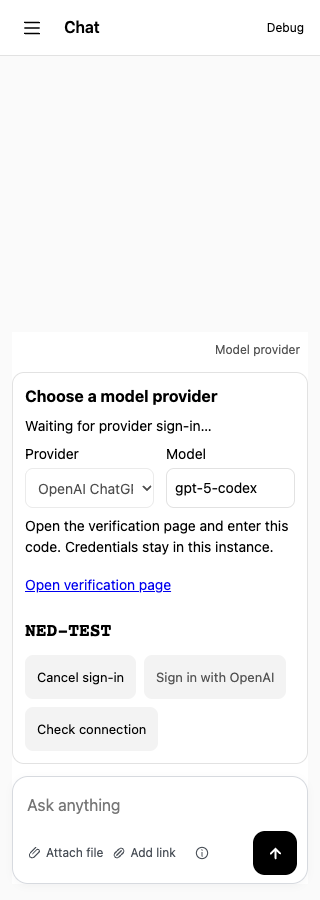
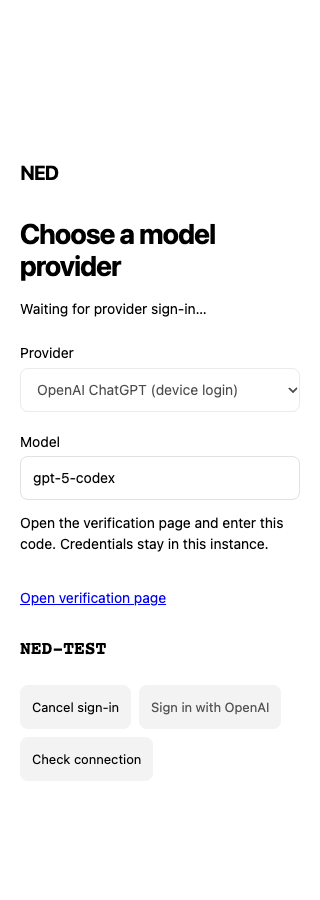
Make first-use model setup a full-screen interstitial

diff --git a/docs/features/model-setup/tests/TC-002.test.js b/docs/features/model-setup/tests/TC-002.test.js
@@ -13,15 +13,18 @@ test('TC-002: served local provider setup clears secrets, preserves draft and by
   const models=createModelSetup({home:root,env:{HERMES_HOME:path.join(root,'profile')},fetch:async(url,options)=>{calls++;assert.equal(url,'https://openrouter.ai/api/v1/key');assert.equal(options.headers.Authorization,'Bearer synthetic-local-provider-key');return new Response('{}',{status:reject?401:200});}});
   const chat=await browserChat(t,{modelSetup:models});await chat.ready();
   const card=chat.page.locator('#model-setup');await expect(card).toBeVisible();await expect(chat.page.locator('#chat-send')).toBeDisabled();
-  await chat.draft.fill('Keep this draft during setup');await chat.page.getByLabel('Provider',{exact:true}).selectOption('openrouter');await expect(chat.page.getByLabel('Model',{exact:true})).toHaveValue('openai/gpt-4.1');
+  await expect(card).toHaveAttribute('open','');
+  await chat.page.keyboard.press('Escape');await expect(card).toBeVisible();
+  await chat.draft.evaluate(e=>{e.value='Keep this draft during setup';e.dispatchEvent(new Event('input',{bubbles:true}));});await chat.page.getByLabel('Provider',{exact:true}).selectOption('openrouter');await expect(chat.page.getByLabel('Model',{exact:true})).toHaveValue('openai/gpt-4.1');
   await chat.page.getByLabel('API key',{exact:true}).fill('synthetic-local-provider-key');await chat.page.getByRole('button',{name:'Connect provider'}).click();await expect(chat.page.locator('#model-setup-status')).toContainText('could not be saved');await expect(chat.page.getByLabel('API key',{exact:true})).toHaveValue('');await expect(chat.draft).toHaveValue('Keep this draft during setup');
   await chat.page.getByRole('button',{name:'Check connection'}).click();await expect(chat.page.locator('#model-setup-status')).toContainText('required before chatting');
   const capture=process.env.NED_MODEL_SCREENSHOT_DIR;
   if(capture)await mkdir(capture,{recursive:true});
-  for(const viewport of [{width:1280,height:900},{width:320,height:740}]){await chat.page.setViewportSize(viewport);if(viewport.width<768){await chat.page.getByRole('button',{name:'Open navigation'}).click();await chat.page.locator('#mobile-sidebar-toggle').click();}await expect(card).toBeVisible();assert.equal(await chat.page.evaluate(()=>globalThis.document.documentElement.scrollWidth>globalThis.innerWidth),false);if(capture)await chat.page.screenshot({path:path.join(capture,`setup-${viewport.width}.png`)});}
+  for(const viewport of [{width:1280,height:900},{width:320,height:740}]){await chat.page.setViewportSize(viewport);await expect(card).toBeVisible();const box=await card.boundingBox();assert.deepEqual({x:box.x,y:box.y,width:box.width,height:box.height},{x:0,y:0,...viewport});await chat.page.keyboard.press('Tab');assert(await card.evaluate(e=>e.contains(globalThis.document.activeElement)));assert.equal(await chat.page.evaluate(()=>globalThis.document.documentElement.scrollWidth>globalThis.innerWidth),false);if(capture)await chat.page.screenshot({path:path.join(capture,`setup-${viewport.width}.png`)});}
   reject=false;await chat.page.getByLabel('API key',{exact:true}).fill('synthetic-local-provider-key');await chat.page.getByRole('button',{name:'Connect provider'}).click();await expect(card).toBeHidden();await expect(chat.page.locator('#chat-send')).toBeEnabled();await expect(chat.draft).toHaveValue('Keep this draft during setup');
   await chat.page.reload();await chat.ready();await chat.page.getByRole('button',{name:'Open navigation'}).click();await chat.page.locator('#mobile-sidebar-toggle').click();await expect(card).toBeHidden();assert.equal(calls,2);assert(!(await chat.page.content()).includes('synthetic-local-provider-key'));assert(!(await chat.page.evaluate(()=>JSON.stringify({...localStorage,...sessionStorage}))).includes('synthetic-local-provider-key'));
   const config=await readFile(path.join(root,'profile/config.yaml'),'utf8');assert(config.includes('synthetic-local-provider-key'));
+  await chat.page.getByRole('button',{name:'Model provider',exact:true}).click();await expect(card).toBeVisible();await chat.page.getByRole('button',{name:'Close model settings',exact:true}).click();await expect(card).toBeHidden();await expect(chat.page.locator('#model-setup-toggle')).toBeFocused();
   await chat.send('Configured local provider interaction');assert.deepEqual(chat.errors,[]);
 });
 
@@ -38,13 +41,34 @@ test('TC-002: hosted setup offers instance configuration and optional account in
 test('TC-002: instance device login shows only challenge, supports cancel/retry and resumes configured chat',{timeout:45000},async t=>{
   const root=await mkdtemp(path.join(tmpdir(),'ned-device-ui-')),profile=path.join(root,'profile');await mkdir(profile,{mode:0o700});t.after(()=>rm(root,{recursive:true,force:true}));
   let approve,stops=0;
-  const adapter={available:async()=>true,async start(input,hooks){let reject,resolve;const done=new Promise((yes,no)=>{resolve=yes;reject=no;});approve=async()=>{let release;try{release=await hooks.beforeCommit();await import('node:fs/promises').then(fs=>fs.writeFile(path.join(profile,'config.yaml'),'model: {provider: openai, default: fixture}\n',{mode:0o600}));resolve();}finally{await release?.();}};queueMicrotask(()=>hooks.event({type:'challenge',verificationUri:'https://auth.openai.com/codex/device',userCode:'NED-TEST',deviceSecret:'never-display'}));return {done,stop(){stops++;reject(Error('cancelled'));}};}};
-  const models=createModelSetup({home:root,env:{HERMES_HOME:profile,OPENAI_API_KEY:'synthetic-configured-key'},hermesAdapter:adapter});
-  // A configured user may explicitly open settings and select another authentication method.
-  const chat=await browserChat(t,{modelSetup:models});await chat.ready();await chat.page.getByRole('button',{name:'Model provider',exact:true}).click();
+  const adapter={available:async()=>true,async start(input,hooks){let reject,resolve;const done=new Promise((yes,no)=>{resolve=yes;reject=no;});approve=async()=>{let release;try{release=await hooks.beforeCommit();await import('node:fs/promises').then(fs=>fs.writeFile(path.join(profile,'config.yaml'),'model: {provider: openai, default: fixture, api_key: synthetic-configured-key}\n',{mode:0o600}));resolve();}finally{await release?.();}};queueMicrotask(()=>hooks.event({type:'challenge',verificationUri:'https://auth.openai.com/codex/device',userCode:'NED-TEST',deviceSecret:'never-display'}));return {done,stop(){stops++;reject(Error('cancelled'));}};}};
+  const models=createModelSetup({home:root,env:{HERMES_HOME:profile},hermesAdapter:adapter});
+  const chat=await browserChat(t,{modelSetup:models});await chat.ready();await expect(chat.page.locator('#model-setup')).toBeVisible();
   await chat.page.getByLabel('Provider',{exact:true}).selectOption('openai-codex');await expect(chat.page.locator('#model-key')).toBeHidden();await chat.page.getByRole('button',{name:'Sign in with OpenAI',exact:true}).click();await expect(chat.page.locator('#model-device-code')).toHaveText('NED-TEST');assert(!(await chat.page.content()).includes('never-display'));
-  if(process.env.NED_MODEL_SCREENSHOT_DIR){await mkdir(process.env.NED_MODEL_SCREENSHOT_DIR,{recursive:true});for(const width of [1280,320]){await chat.page.setViewportSize({width,height:900});if(width<768){await chat.page.getByRole('button',{name:'Open navigation'}).click();await chat.page.locator('#mobile-sidebar-toggle').click();}assert.equal(await chat.page.evaluate(()=>globalThis.document.documentElement.scrollWidth>globalThis.innerWidth),false);await chat.page.screenshot({path:path.join(process.env.NED_MODEL_SCREENSHOT_DIR,'device-'+width+'.png')});}}
+  if(process.env.NED_MODEL_SCREENSHOT_DIR){await mkdir(process.env.NED_MODEL_SCREENSHOT_DIR,{recursive:true});for(const width of [1280,320]){await chat.page.setViewportSize({width,height:900});assert.equal(await chat.page.evaluate(()=>globalThis.document.documentElement.scrollWidth>globalThis.innerWidth),false);await chat.page.screenshot({path:path.join(process.env.NED_MODEL_SCREENSHOT_DIR,'device-'+width+'.png')});}}
 
-  await chat.page.getByRole('button',{name:'Cancel sign-in',exact:true}).click();await expect(chat.page.locator('#model-setup-status')).toContainText('cancelled');assert(stops>0);
+  await chat.page.getByRole('button',{name:'Cancel sign-in',exact:true}).click();await expect(chat.page.locator('#model-setup-status')).toContainText('cancelled');assert(stops>0);await chat.page.keyboard.press('Escape');await expect(chat.page.locator('#model-setup')).toBeVisible();
   await chat.page.getByRole('button',{name:'Sign in with OpenAI',exact:true}).click();await expect(chat.page.locator('#model-device-code')).toHaveText('NED-TEST');await approve();await expect(chat.page.locator('#chat-send')).toBeEnabled();assert(!(await chat.page.evaluate(()=>JSON.stringify({...localStorage,...sessionStorage}))).includes('NED-TEST'));
+});
+
+
+test('TC-002: status failure cannot bypass first-use setup and lost access clears the flow before reauthentication',{timeout:45000},async t=>{
+  const root=await mkdtemp(path.join(tmpdir(),'ned-model-gate-'));t.after(()=>rm(root,{recursive:true,force:true}));
+  const models=createModelSetup({home:root,env:{HERMES_HOME:path.join(root,'profile')}});
+  const chat=await browserChat(t,{modelSetup:models,deferLogin:true});
+  let release;const waiting=new Promise(resolve=>{release=resolve;});
+  let first=true;
+  await chat.page.route('**/api/v1/model-setup',async route=>{
+    if(first&&route.request().method()==='GET'){first=false;await waiting;return route.fulfill({status:503,json:{error:{code:'unavailable'}}});}
+    await route.continue();
+  });
+  await chat.page.locator('#access-token').fill(chat.accessToken);await chat.page.locator('#access-submit').click();
+  const card=chat.page.locator('#model-setup');await expect(card).toBeVisible();await expect(chat.page.locator('#model-setup-status')).toContainText('Checking model configuration');
+  await chat.page.keyboard.press('Escape');await expect(card).toBeVisible();release();
+  await expect(chat.page.locator('#model-setup-status')).toContainText('unavailable');await chat.page.getByRole('button',{name:'Check connection',exact:true}).click();
+  await expect(chat.page.locator('#model-setup-form')).toBeVisible();await chat.page.getByLabel('API key',{exact:true}).fill('synthetic-unsaved-key');
+  await chat.page.evaluate(async()=>{const {apiClient}=await import('/api-client.js');apiClient.forget();});
+  await expect(card).toBeHidden();await expect(chat.page.locator('#access-gate')).toBeVisible();await expect(chat.page.locator('#model-key')).toHaveValue('');
+  await chat.page.locator('#access-token').fill(chat.accessToken);await chat.page.locator('#access-submit').click();
+  await expect(card).toBeVisible();await expect(chat.page.locator('#model-setup-form')).toBeVisible();await expect(chat.page.locator('#chat-send')).toBeDisabled();assert.deepEqual(chat.errors,[]);
 });

diff --git a/apps/com/src/public/model-setup.js b/apps/com/src/public/model-setup.js
@@ -3,10 +3,30 @@ export function mountModelSetup({document,request=globalThis.fetch,changed=()=>{
   if(!card||!toggle)return {ready:()=>true,refresh:async()=>{}};
   const element=id=>document.getElementById(id),status=element('model-setup-status'),form=element('model-setup-form'),provider=element('model-provider'),model=element('model-name'),key=element('model-key'),hub=element('model-hub-link'),check=element('model-check');
   let state,ready=false,busy=false,opened=false,nonce,closed=false,version=0,login,pollTimer;
+  let authenticated=!document.getElementById('app-shell')?.hidden;
+  const closeButton=element('model-setup-close');
+  function dismiss(){if(!ready)return;opened=false;render();toggle.focus();}
+  card.addEventListener('cancel',event=>{event.preventDefault();dismiss();});
+  closeButton.addEventListener('click',dismiss);
+  document.addEventListener('keydown',event=>{
+    if(event.key!=='Tab'||!card.open)return;
+    const controls=[...card.querySelectorAll('a[href],button,input,select,textarea')].filter(e=>!e.disabled&&e.getClientRects().length);
+    const first=controls[0],last=controls.at(-1),active=document.activeElement;
+    if(!first){event.preventDefault();element('model-setup-title').focus();}
+    else if(event.shiftKey&&(active===first||!controls.includes(active))){event.preventDefault();last.focus();}
+    else if(!event.shiftKey&&(active===last||!controls.includes(active))){event.preventDefault();first.focus();}
+  });
+  document.addEventListener('ned-auth-lost',()=>{authenticated=false;version++;ready=false;state=null;nonce=null;login=null;clearTimeout(pollTimer);key.value='';render();});
+  document.addEventListener('ned-auth-entered',()=>{const recheck=!authenticated;authenticated=true;render();if(recheck)void discover();});
   const pending=()=>login&&['starting','waiting','authorizing'].includes(login.state);
   const defaults={openai:'gpt-4.1',openrouter:'openai/gpt-4.1',gemini:'gemini-2.5-flash',anthropic:'claude-sonnet-4-5','openai-codex':'gpt-5-codex'};
   function render(){
-    card.hidden=ready&&!opened;
+    const visible=!closed&&authenticated&&(!ready||opened);
+    card.classList.toggle('model-onboarding',!ready);
+    closeButton.hidden=!ready;
+    card.hidden=!visible;
+    if(visible&&!card.open){card.showModal();element('model-setup-title').focus();}
+    else if(!visible&&card.open){card.close();if(authenticated&&ready)element('chat-message').focus();}
     form.hidden=!state;
     element('model-connect').hidden=form.hidden;
     hub.hidden=!state?.settingsUrl;
@@ -50,6 +70,7 @@ export function mountModelSetup({document,request=globalThis.fetch,changed=()=>{
     const current=++version;busy=true;key.value='';render();
     try{
       const response=await request('/api/v1/model-setup',{method:'POST',headers:{'Content-Type':'application/json','X-NED-Models':'1'},body:JSON.stringify(body),signal:AbortSignal.timeout(20000)});
+      if(closed||current!==version)return;
       if(!response.ok)throw new Error('Rejected');
       if(response.status===202){const data=await response.json();login=data.login;schedulePoll();status.textContent='Waiting for provider sign-in…';return;}
       const data=await read();if(closed||current!==version)return;
@@ -61,24 +82,28 @@ export function mountModelSetup({document,request=globalThis.fetch,changed=()=>{
   function schedulePoll(){clearTimeout(pollTimer);if(!closed&&pending())pollTimer=setTimeout(()=>void poll(),1500);}
   async function poll(){
     if(closed||!pending())return;
-    try{const response=await request('/api/v1/model-setup?login='+encodeURIComponent(login.id),{headers:{'X-NED-Models':'1'},signal:AbortSignal.timeout(15000)});if(!response.ok)throw Error();const data=await response.json();if(closed)return;login=data.login;if(pending()){status.textContent=login.state==='authorizing'?'Saving provider connection…':'Waiting for provider sign-in…';render();schedulePoll();}else{const complete=login.state==='complete';login=null;opened=!complete;await refresh();if(!complete)status.textContent='Provider sign-in did not complete. Check connection and try again.';}}
-    catch{if(!closed){status.textContent='Sign-in status is unavailable. Check connection before trying again.';login=null;render();}}
+    const current=version;
+    try{const response=await request('/api/v1/model-setup?login='+encodeURIComponent(login.id),{headers:{'X-NED-Models':'1'},signal:AbortSignal.timeout(15000)});if(!response.ok)throw Error();const data=await response.json();if(closed||current!==version)return;login=data.login;if(pending()){status.textContent=login.state==='authorizing'?'Saving provider connection…':'Waiting for provider sign-in…';render();schedulePoll();}else{const complete=login.state==='complete';login=null;opened=!complete;await refresh();if(!complete)status.textContent='Provider sign-in did not complete. Check connection and try again.';}}
+    catch{if(!closed&&current===version){status.textContent='Sign-in status is unavailable. Check connection before trying again.';login=null;render();}}
   }
   element('model-disconnect').addEventListener('click',()=>{if(busy||pending()||!nonce)return;if(!globalThis.confirm('Disconnect this instance provider? Other instances and Hub account settings stay unchanged.'))return;void write({action:'disconnect',nonce,confirm:true});});
   element('model-login-cancel').addEventListener('click',async()=>{
-    if(busy||!pending())return;busy=true;render();
-    try{const response=await request('/api/v1/model-setup',{method:'POST',headers:{'Content-Type':'application/json','X-NED-Models':'1'},body:JSON.stringify({action:'cancel-login',id:login.id}),signal:AbortSignal.timeout(15000)});if(!response.ok)throw Error();login=null;clearTimeout(pollTimer);await refresh(true);status.textContent='Provider sign-in cancelled.';}catch{status.textContent='Check connection before retrying sign-in.';}finally{busy=false;render();}
+    if(busy||!pending())return;const current=version;busy=true;render();
+    try{const response=await request('/api/v1/model-setup',{method:'POST',headers:{'Content-Type':'application/json','X-NED-Models':'1'},body:JSON.stringify({action:'cancel-login',id:login.id}),signal:AbortSignal.timeout(15000)});if(closed||current!==version)return;if(!response.ok)throw Error();login=null;clearTimeout(pollTimer);await refresh(true);status.textContent='Provider sign-in cancelled.';}catch{status.textContent='Check connection before retrying sign-in.';}finally{busy=false;render();}
   });
   form.addEventListener('submit',event=>{event.preventDefault();if(!nonce||busy)return;const body={nonce,provider:provider.value,model:model.value,replace:state?.source!=='local',...(provider.value==='openai-codex'?{action:'login'}:{apiKey:key.value})};nonce=null;void write(body);});
   provider.addEventListener('change',()=>{model.value=defaults[provider.value]??'';render();});
   check.addEventListener('click',()=>{if(busy)return;if(state?.source==='hub')void write({action:'inherit'});else void refresh();});
   toggle.addEventListener('click',()=>{opened=!opened;render();if(opened)void refresh();});
-  queueMicrotask(async()=>{
+  async function discover(){
+    const current=++version;busy=true;render();
     try{
       const response=await request('/api/v1/capabilities',{signal:AbortSignal.timeout(15000)}),data=await response.json();
-      if(data.capabilities?.modelSetup===false){ready=true;card.hidden=true;toggle.hidden=true;changed();return;}
+      if(closed||current!==version)return;
+      if(data.capabilities?.modelSetup===false){busy=false;ready=true;opened=false;toggle.hidden=true;render();return;}
     }catch{/* The model status request remains authoritative when discovery fails. */}
-    await refresh();
-  });
-  return {ready:()=>ready,refresh,close(){closed=true;version++;clearTimeout(pollTimer);key.value='';element('model-device-code').textContent='';}};
+    if(!closed&&current===version)await refresh();
+  }
+  queueMicrotask(()=>{if(authenticated)void discover();});
+  return {ready:()=>ready,refresh,close(){closed=true;version++;clearTimeout(pollTimer);key.value='';element('model-device-code').textContent='';render();}};
 }

diff --git a/apps/com/src/public/index.html b/apps/com/src/public/index.html
@@ -25,13 +25,7 @@
       <button id="model-setup-toggle" type="button" aria-controls="model-setup" aria-expanded="false">Model provider</button>
       <p id="chat-status" role="status" aria-live="polite">Loading chat…</p>
       <button id="chat-retry">Reload</button>
-      <section id="model-setup" aria-labelledby="model-setup-title" hidden>
-        <h2 id="model-setup-title">Choose a model provider</h2><p id="model-setup-status" role="status">Model provider is required before chatting.</p>
-        <a id="model-hub-link" target="_blank" rel="noopener noreferrer" hidden>Set up in NED Hub</a>
-        <form id="model-setup-form" autocomplete="off" hidden><div class="model-field"><label for="model-provider">Provider</label><select id="model-provider"><option value="openai">OpenAI</option><option value="openrouter">OpenRouter</option><option value="gemini">Google Gemini</option><option value="anthropic">Claude (Anthropic)</option><option value="openai-codex" disabled>OpenAI ChatGPT (device login)</option></select></div><div class="model-field"><label for="model-name">Model</label><input id="model-name" value="gpt-4.1" maxlength="200" required></div><div class="model-field model-key-field"><label for="model-key">API key</label><input id="model-key" type="password" autocomplete="new-password" minlength="16" maxlength="4096" required></div></form>
-        <div id="model-device" hidden><p>Open the verification page and enter this code. Credentials stay in this instance.</p><a id="model-device-link" target="_blank" rel="noopener noreferrer">Open verification page</a><p><code id="model-device-code"></code></p></div>
-        <div class="model-actions"><button id="model-login-cancel" type="button" hidden>Cancel sign-in</button><button id="model-connect" type="submit" form="model-setup-form">Connect provider</button><button id="model-check" type="button">Check connection</button><button id="model-disconnect" type="button" hidden>Disconnect instance provider</button></div>
-      </section>
+
       <form id="chat-form">
         <ul id="chat-task-references" class="task-reference-list" aria-label="Referenced tasks"></ul><p id="chat-reference-status" class="sr-only" role="status"></p>
         <label class="sr-only" for="chat-message">Message</label>
@@ -63,4 +57,11 @@
   <dialog id="navigation-drawer" class="navigation-drawer" aria-labelledby="navigation-title"><header><h2 id="navigation-title">NED</h2><button id="navigation-close" type="button" aria-label="Close navigation">×</button></header><div id="navigation-items"></div></dialog>
 </div>
 
+      <dialog id="model-setup" aria-labelledby="model-setup-title" aria-describedby="model-setup-status" hidden><div class="model-setup-content"><div class="model-setup-header"><strong>NED</strong><button id="model-setup-close" type="button" aria-label="Close model settings" hidden>Close</button></div>
+        <h2 id="model-setup-title" tabindex="-1">Choose a model provider</h2><p id="model-setup-status" role="status">Checking model configuration…</p>
+        <a id="model-hub-link" target="_blank" rel="noopener noreferrer" hidden>Set up in NED Hub</a>
+        <form id="model-setup-form" autocomplete="off" hidden><div class="model-field"><label for="model-provider">Provider</label><select id="model-provider"><option value="openai">OpenAI</option><option value="openrouter">OpenRouter</option><option value="gemini">Google Gemini</option><option value="anthropic">Claude (Anthropic)</option><option value="openai-codex" disabled>OpenAI ChatGPT (device login)</option></select></div><div class="model-field"><label for="model-name">Model</label><input id="model-name" value="gpt-4.1" maxlength="200" required></div><div class="model-field model-key-field"><label for="model-key">API key</label><input id="model-key" type="password" autocomplete="new-password" minlength="16" maxlength="4096" required></div></form>
+        <div id="model-device" hidden><p>Open the verification page and enter this code. Credentials stay in this instance.</p><a id="model-device-link" target="_blank" rel="noopener noreferrer">Open verification page</a><p><code id="model-device-code"></code></p></div>
+        <div class="model-actions"><button id="model-login-cancel" type="button" hidden>Cancel sign-in</button><button id="model-connect" type="submit" form="model-setup-form">Connect provider</button><button id="model-check" type="button">Check connection</button><button id="model-disconnect" type="button" hidden>Disconnect instance provider</button></div>
+      </div></dialog>
 </body></html>

diff --git a/apps/com/src/public/conversation.css b/apps/com/src/public/conversation.css
@@ -33,17 +33,35 @@
 #chat-send[data-state="stop"] svg path,#chat-send[data-state="stopping"] svg path{d:path('M4 4h8v8H4z');fill:currentColor;stroke:none}
 #chat-send[data-state="stopping"]{opacity:.6}
 
-#model-setup { border: 1px solid var(--border); border-radius: 12px; padding: 12px; margin-bottom: 12px; max-height: 55dvh; overflow: auto; }
 #model-setup[hidden], #model-setup [hidden] { display: none; }
-#model-setup h2 { font-size: 16px; margin: 0 0 8px; }
-#model-setup p { font-size: 14px; margin: 8px 0; }
 #model-setup-form { display: grid; grid-template-columns: minmax(0,1fr) minmax(0,1fr); gap: 12px; }
 .model-field { display: grid; gap: 4px; min-width: 0; font-size: 14px; }
 .model-key-field { grid-column: 1 / -1; }
-#model-setup input, #model-setup select { box-sizing: border-box; width: 100%; min-width: 0; min-height: 40px; padding: 8px; font: inherit; color: var(--text); background: var(--surface); border: 1px solid var(--border); border-radius: 8px; }
+#model-setup input, #model-setup select { box-sizing: border-box; width: 100%; min-width: 0; min-height: 44px; padding: 10px 12px; font: inherit; color: var(--text); background: var(--surface); border: 1px solid var(--border); border-radius: 8px; }
 .model-actions { display: flex; flex-wrap: wrap; gap: 8px; margin-top: 12px; }
 #model-setup button { min-height: 44px; padding: 8px 12px; border: 0; border-radius: 8px; font: inherit; font-size: 13px; color: var(--text); background: var(--hover); }
 #model-connect { background: var(--text)!important; color: var(--surface)!important; }
 #model-connect:disabled { background: var(--hover)!important; color: var(--muted)!important; }
 #model-hub-link { display: inline-flex; align-items: center; min-height: 44px; }
 #model-setup-toggle { display: block; margin: 0 0 4px auto; min-height: 36px; border: 0; border-radius: 8px; padding: 4px 8px; background: transparent; color: var(--muted); font-size: 12px; }
+
+/* One model form: required first-use interstitial or optional settings dialog. */
+#model-setup { box-sizing: border-box; width: min(624px, calc(100% - 32px)); max-width: none; max-height: calc(100dvh - 32px); border: 1px solid var(--border); border-radius: 12px; overflow: auto; margin: auto; padding: 32px; color: var(--text); background: var(--surface); }
+#model-setup::backdrop { background: rgb(0 0 0 / 35%); }
+#model-setup.model-onboarding { position: fixed; inset: 0; width: 100%; height: 100dvh; max-height: none; margin: 0; border: 0; border-radius: 0; padding: 32px; overflow-y: auto; overscroll-behavior: contain; }
+#model-setup.model-onboarding::backdrop { background: var(--surface); }
+.model-setup-content { width: min(100%, 560px); margin: auto; }
+.model-onboarding .model-setup-content { padding-block: max(0px, calc((100dvh - 640px) / 2)); }
+.model-setup-header { display: flex; align-items: center; justify-content: space-between; min-height: 44px; margin-bottom: 32px; }
+.model-setup-header strong { font-size: 20px; letter-spacing: -1px; }
+#model-setup h2 { font-size: 32px; line-height: 1.15; letter-spacing: -1px; margin: 0 0 16px; }
+#model-setup p { font-size: 14px; line-height: 1.5; margin: 12px 0 24px; }
+#model-setup-form { margin-top: 24px; gap: 20px 16px; }
+#model-setup .model-actions { margin-top: 24px; }
+#model-device-code { overflow-wrap: anywhere; }
+@media (max-width: 767px) {
+  #model-setup, #model-setup.model-onboarding { padding: 20px; }
+  #model-setup-form { grid-template-columns: minmax(0,1fr); }
+  .model-setup-header { margin-bottom: 24px; }
+  #model-setup h2 { font-size: 28px; }
+}

diff --git a/apps/com/src/public/auth-entry.js b/apps/com/src/public/auth-entry.js
@@ -4,7 +4,7 @@ const shell=document.getElementById('app-shell'),gate=document.getElementById('a
 let initialized=false,busy=true,instanceId,accessVersion=0;
 submit.disabled=true;
 function show(message='Enter this instance’s access token to continue.'){
-  shell.hidden=true;shell.inert=true;gate.hidden=false;document.getElementById('access-memory').hidden=true;status.textContent=message;input.value='';input.focus();
+  document.dispatchEvent(new Event('ned-auth-lost'));shell.hidden=true;shell.inert=true;gate.hidden=false;document.getElementById('access-memory').hidden=true;status.textContent=message;input.value='';input.focus();
 }
 async function enter(result){
   const version=accessVersion;
@@ -15,7 +15,7 @@ async function enter(result){
   if(!initialized){await Promise.all([import('./vendor/webawesome.js'),import('./settings.js'),import('./app.js'),import('./chat-entry.js'),import('./work-entry.js')]);initialized=true;}
   else document.dispatchEvent(new Event('ned-auth-restored'));
   if(version!==accessVersion)return;
-  gate.hidden=true;shell.hidden=false;shell.inert=false;
+  gate.hidden=true;shell.hidden=false;shell.inert=false;document.dispatchEvent(new Event('ned-auth-entered'));
 }
 apiClient.onLost(reason=>{accessVersion++;show(reason==='expired'?'Access expired or changed. Enter an access token to reconnect.':'Enter this instance’s access token to continue.');});
 form.addEventListener('submit',async event=>{

diff --git a/apps/com/src/public/chat-ui.js b/apps/com/src/public/chat-ui.js
@@ -251,7 +251,7 @@ export function mountChat(libraries) {
       media.clear();references.clear();
       if(following){await history();await fillUnderfilled();bottom(true);}else refreshNeeded='New reply available. Jump to latest.';
       }catch(error){
-        void modelSetup.refresh(true);
+        void modelSetup.refresh();
         if(!draft.value)draft.value=input;
         if(pendingUser){if(['invalid_attachment','invalid_reference'].includes(error.code))transcript.replaceChildren(...Array.from(transcript.children).filter(row=>row!==pendingUser));else pendingUser.dataset.state='incomplete';}
         fitDraft();throw error;

diff --git a/docs/features/model-setup/SPEC.md b/docs/features/model-setup/SPEC.md
@@ -90,7 +90,7 @@ configured.” / “Model provider is required before chatting.” / “Model se
 are unavailable. Check configuration and try again.” Error: “Provider connection
 could not be saved. Check the credentials and try again.” Never show provider
 response bodies. Existing credentials are never repopulated into the password
-input. A compact card above the composer preserves the existing conversation.
+input. First-use setup is a full-screen interstitial; see [layout and interaction contract](design/interstitial.md).
 
 ## Coverage and acceptance
 
@@ -109,10 +109,7 @@ Stopping preserves profile/workspace; credentials can remain in encrypted-volume
 backups under their retention policy. Retiring setup must preserve user config,
 remove routes/controls and revoke Hub capabilities without erasing workspaces.
 
-The compact card uses a two-column provider/model row, a full-width password field
-and neutral actions with a black Connect provider primary action. It scrolls only
-when space requires, keeping the composer/draft below it. Model provider toggles
-the card on desktop/mobile. Check connection obtains authoritative status after
+The shared form uses a two-column provider/model row on desktop and one column on mobile, a full-width password field and neutral actions with a black Connect provider primary action. The first-use full-screen interstitial and optional settings dialog scroll vertically when necessary. Model provider opens optional settings on desktop/mobile. Check connection obtains authoritative status after
 uncertainty; credentials are never automatically replayed. Rendered synthetic
 captures live under `design/` and are produced by TC-002.
 
@@ -137,7 +134,7 @@ Given an authenticated instance owner and an isolated Hermes profile, select Gem
 
 Automated references: tests/TC-003.test.js and tests/hermes/live.test.js (run through npm run test:core:hermes) and the existing TC-002 served browser journey. Existing TC-001/TC-002 remain the API-key/inheritance/authentication regression base, updated for hosted overrides.
 
-Design: extend the existing approved compact card/design captures. Provider/model fields stay; Gemini/Claude add provider choices. Device login replaces the password field with verification instructions, external noopener link, copyable code, waiting/error status and Cancel. Buttons disable double submission; narrow screens wrap within the existing card. No new navigation/layout or approval gate. Capture desktop/320px from the served UI and self-review reflow/focus/secret exclusion.
+Design: retain the existing provider form/design captures; the #196 interstitial revision supersedes the compact layout. Provider/model fields stay; Gemini/Claude add provider choices. Device login replaces the password field with verification instructions, external noopener link, copyable code, waiting/error status and Cancel. Buttons disable double submission; narrow screens wrap within the existing card. No new navigation/layout or approval gate. Capture desktop/320px from the served UI and self-review reflow/focus/secret exclusion.
 Metrics: existing sanitized API status and bounded job-state outcomes only; no codes, tokens, prompts, account identifiers or new analytics service.
 
 Commit boundary: after provider approval, the current NED API authority and unchanged snapshot authorize the private commit. Cancellation/expiry before that point prevents persistence; authorizing is no longer cancellable (409/readback). Shutdown or a filesystem failure during Hermes multi-file persistence is uncertain and requires authoritative readback; per-file atomicity is not a cross-file/provider transaction, and no blind exchange replay or grant rollback is claimed.
@@ -145,3 +142,8 @@ Commit boundary: after provider approval, the current NED API authority and unch
 Resource reservation includes terminating login processes until actual child exit; cancel response waits for owned cleanup before admitting a replacement. The installed adapter admits at most2 subprocesses including discovery/configuration, and non-inference credential HTTP operations are capped at8. Regression TC-003 holds child exit after cancellation and proves a replacement cannot start early.
 
 Shutdown also fences interpreter discovery before spawn and awaits pending commit-authorization/lock cleanup before releasing an operation slot; closed adapters cannot reopen. Commit-check errors retain their NED401/409 domain classification instead of becoming an opaque helper error.
+
+## First-use full-screen setup (#196)
+
+- FR-011: Authenticated missing/unknown model configuration presents a full-screen, keyboard-contained interstitial before the workspace can be used. Loading, errors and cancelled login remain in the flow. Only authoritative configured status (or explicit model-setup capability absence) admits the workspace. Configured profiles bypass first-use setup; optional model settings can be closed. Access loss closes setup and restored access revalidates it. Preserve drafts and current provider/secret behavior.
+- CUJ-001 / TC-002 also cover FR-011. Serve the actual COM UI with synthetic provider boundaries; assert desktop/mobile viewport coverage, keyboard focus containment, Escape cannot bypass missing config, success restores workspace, reload bypass, optional settings dismissal, error recovery and access-loss/reconnect. Remove only test-owned profiles/listeners. Design: [interstitial](design/interstitial.md); captures in design/. No live provider claims.

diff --git a/docs/features/model-setup/design/interstitial.md b/docs/features/model-setup/design/interstitial.md
@@ -1,0 +1,16 @@
+# First-time model setup — #196
+
+The user requested a full-screen first-use interstitial. This replaces the compact first-use card in setup-1280/setup-320; reuse `public/base.css` neutral Base tokens and existing model form, labels, actions and authentication contract. No extra wizard steps, new provider flow or skip action.
+
+Primary journey: authenticated unconfigured instance → choose provider/model → API key or Hermes device authentication → authoritative configured status → workspace. Configured instances bypass this flow. Provider settings remain reachable through Model provider and may be closed while configuration remains valid.
+
+- Desktop 1280×900: white full-viewport surface, centered 560px column, 32px outer padding, NED wordmark, 32px title, 24px section spacing, provider/model in two columns. Black Connect provider primary; secondary Check connection. Existing setup copy retained.
+- Mobile 320×740: one column, 20px padding, full available dynamic viewport, document-like vertical scrolling, 44px controls, wrapping actions/device code, no horizontal overflow. No workspace/navigation visible behind required setup.
+- UI-AC-01: one native modal dialog / one form instance; full-screen when configuration is missing or unknown. Covered workspace is inert by native dialog semantics; Escape cannot dismiss required setup. Focus enters the heading; Tab remains in the flow. Checking/error/cancel stay recoverable inside it.
+- UI-AC-02: authoritative configured status closes first-use setup and moves focus to the composer without losing drafts. Existing configured profiles bypass it. Optional settings use the same form as a centered modal with Close/Escape and focus return to Model provider.
+- UI-AC-03: NED access loss closes the dialog, clears typed key/challenge and returns to access authentication; restored authentication rechecks model status before admitting the workspace. Never store completion in browser storage.
+- UI-AC-04: preserve provider/secret/job handling. API keys remain passwords, clear on attempts, and no provider secret/response appears in error text. Device cancellation never bypasses required setup.
+
+Verification: TC-002 served-browser tests own full-screen geometry, required/optional focus, narrow reflow, secret clearing, configured bypass and auth-loss transitions. Capture/inspect desktop/mobile with NED_MODEL_SCREENSHOT_DIR. Existing model API/Hermes tests retain provider boundary coverage; no new live consent or paid inference.
+
+Chat/network failure rechecks model status without forcing optional settings open for an already configured profile; existing chat Reload/recovery remains reachable (communicator TC-038).

diff --git a/docs/architecture.md b/docs/architecture.md
@@ -124,3 +124,5 @@ Hub-owned provider OAuth is retired (Hub#137); optional account API-key defaults
 Hermes SDK, real container/EKS and live provider consent are separate evidence;
 source merge does not certify staging enablement. No new telemetry receives raw
 keys, grants, chat content or profile data.
+
+First-use model setup in COM is an authenticated full-screen modal gate driven by Core model status, not a browser completion flag. The workspace remains unavailable until configuration is confirmed; existing configured profiles bypass onboarding. The same form serves optional provider settings. See [model setup](features/model-setup/SPEC.md) and its [interstitial contract](features/model-setup/design/interstitial.md). Provider API/auth ownership is unchanged.
